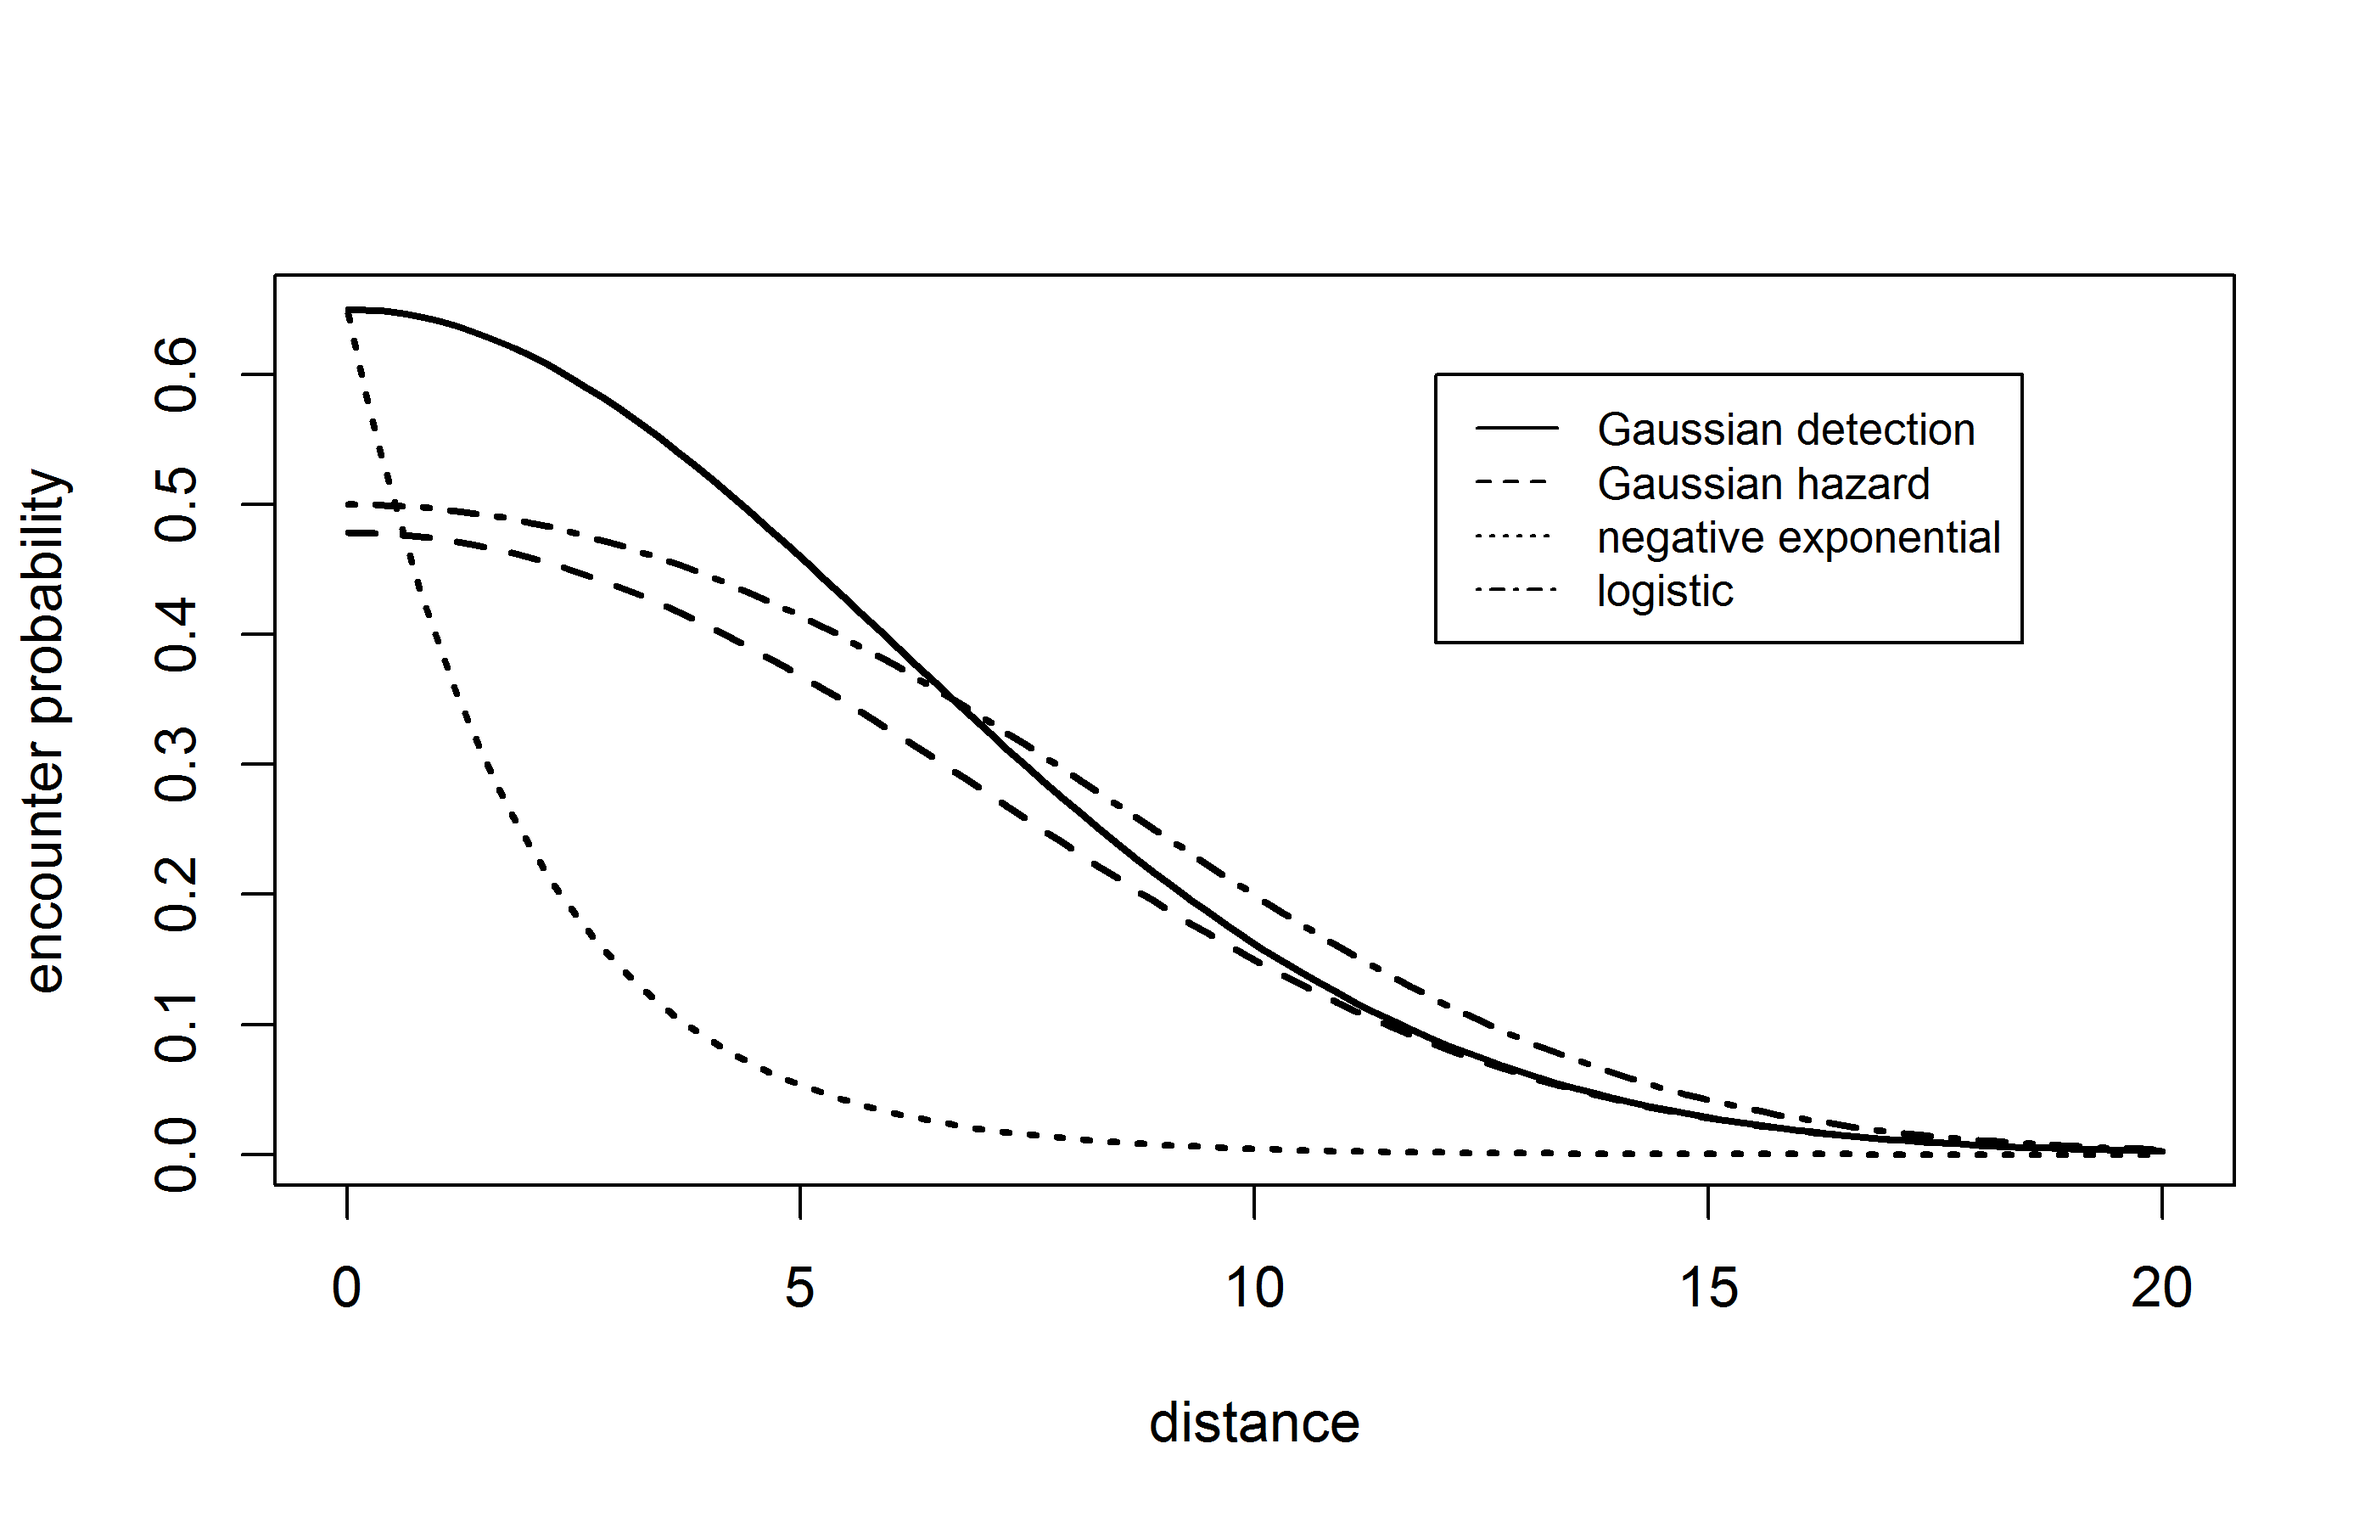
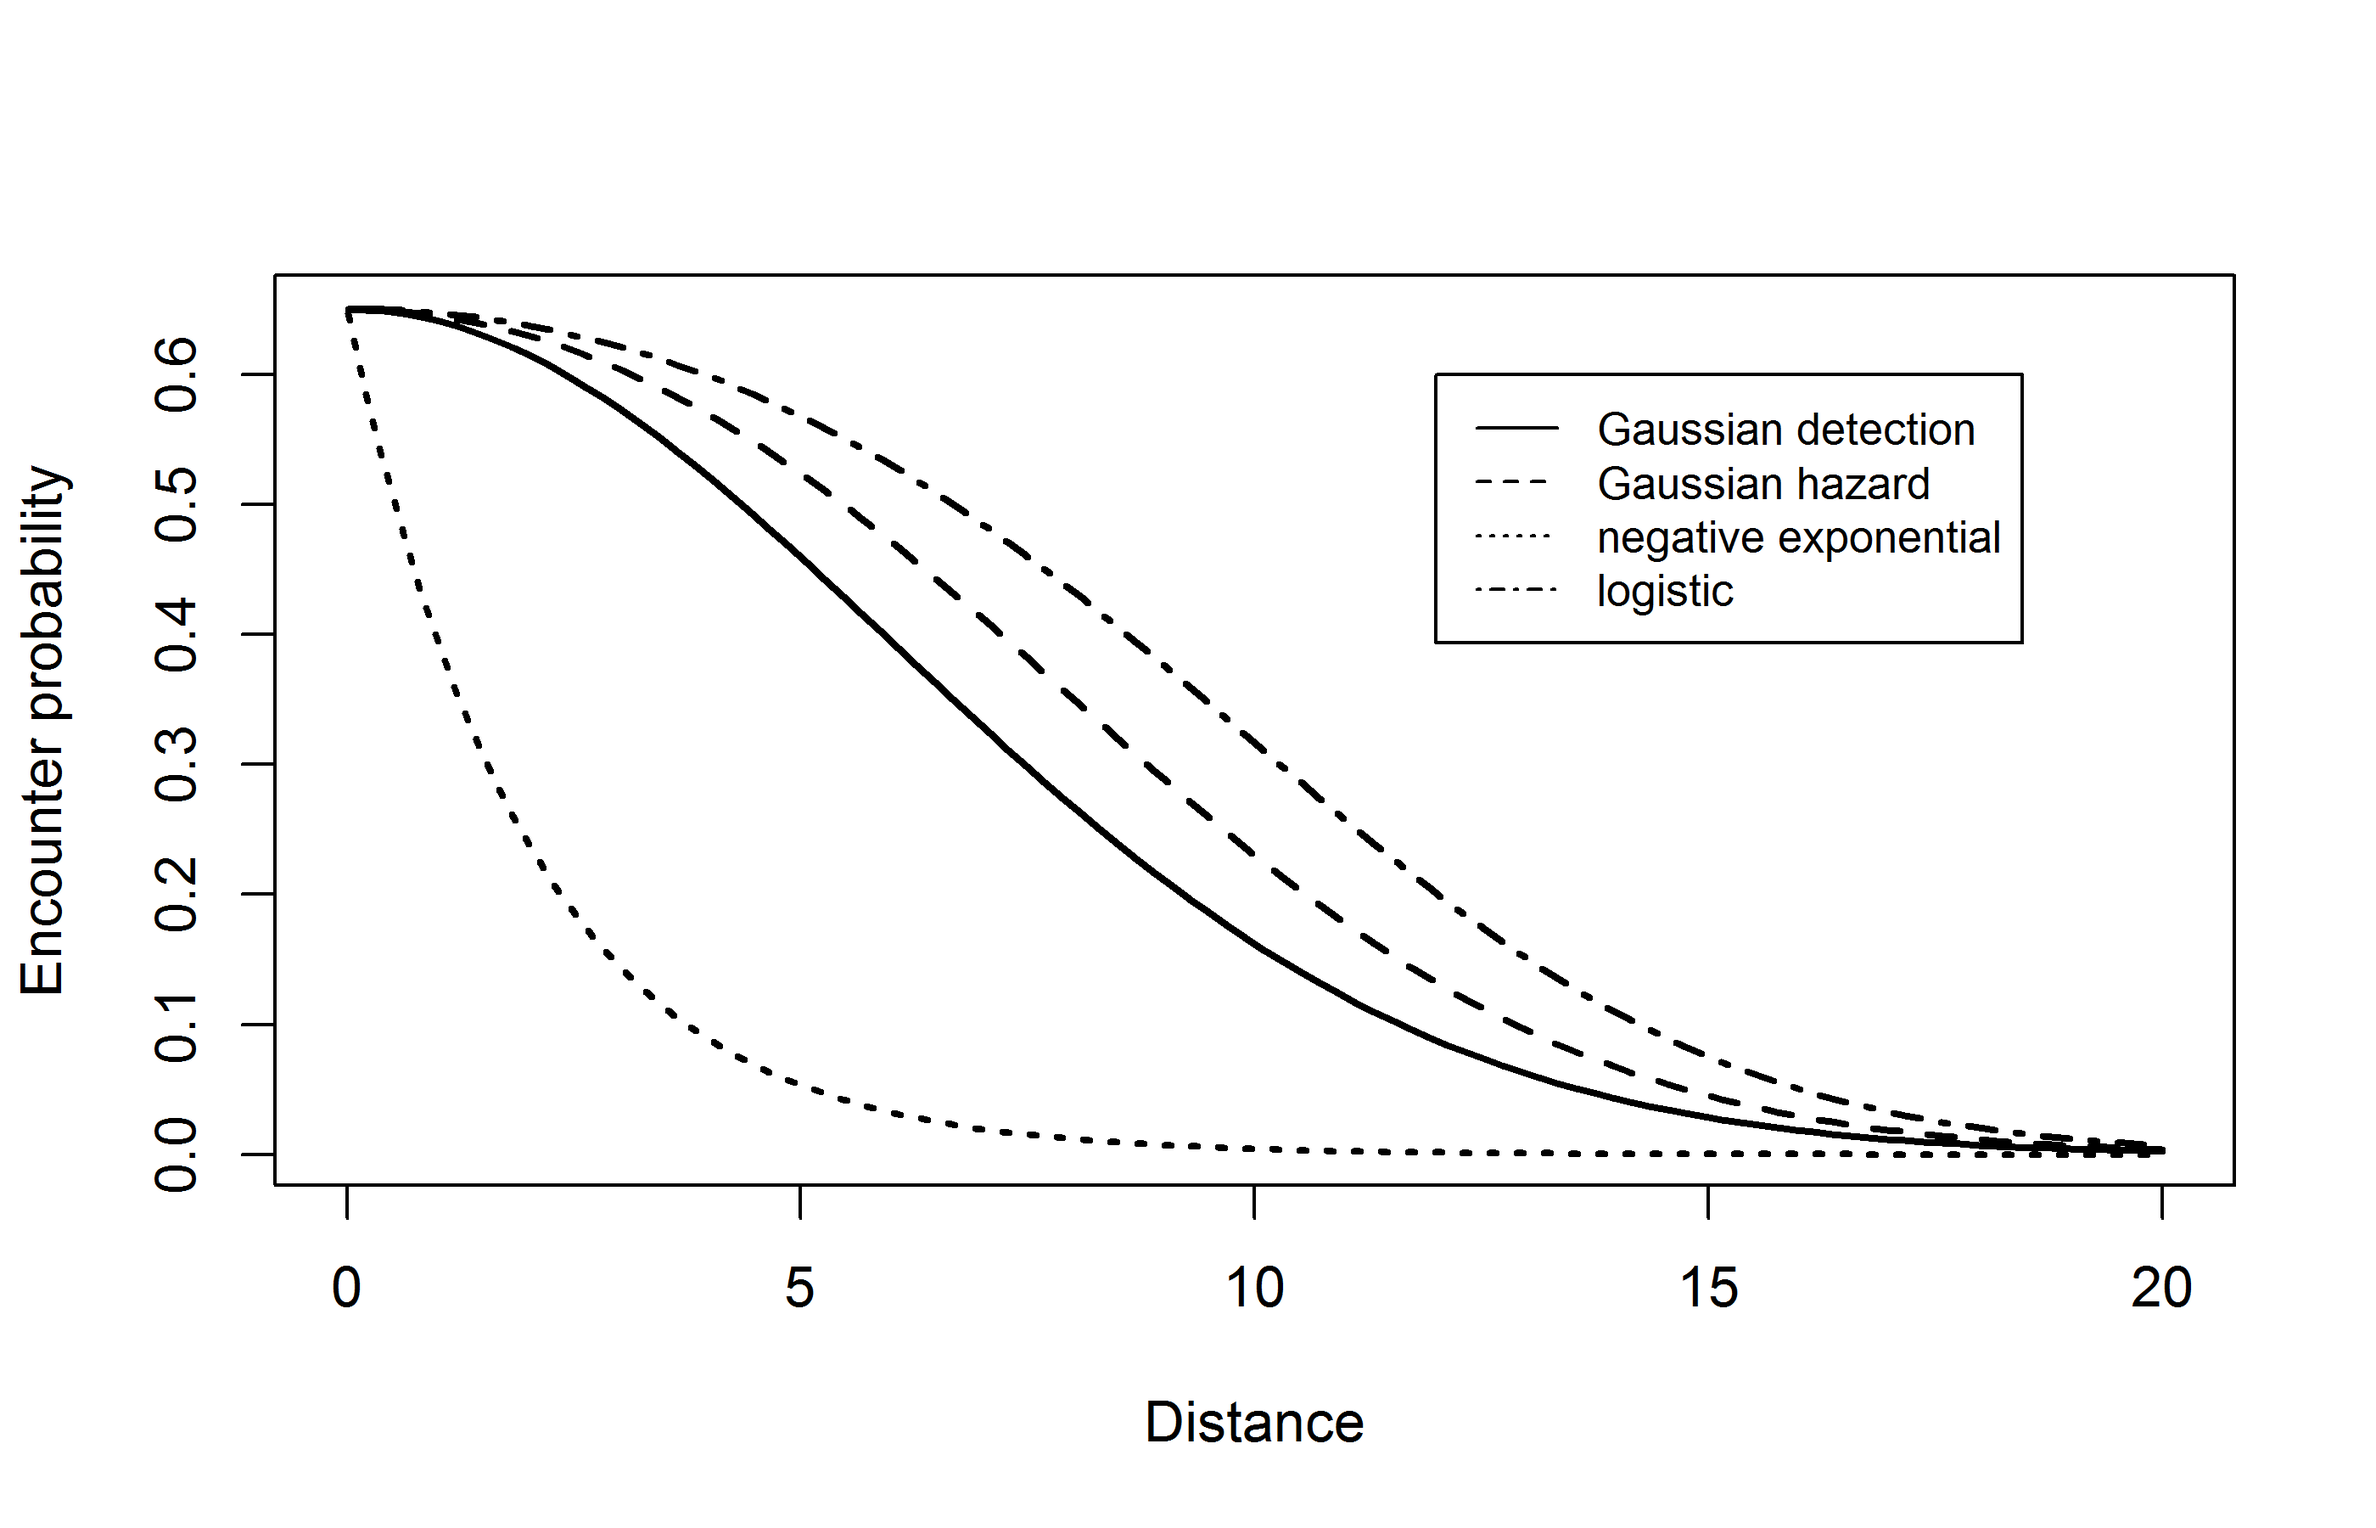
a few edits

diff --git a/Ch5-SCR0/Chapt-SCR0.tex b/Ch5-SCR0/Chapt-SCR0.tex
@@ -248,8 +248,6 @@ kernel.
 \caption{Some common encounter probability models showing the
   characteristic monotone decrease of encounter probability with
   distance between activity center and trap location.
-{\bf  XXXX Suggest capitalizing axis labels. Why do they have
-   different intercepts? XXXX }
 }
 \label{scr0.fig.detfuncs}
 \end{figure}
@@ -992,7 +990,7 @@ usage:
  }
 
 ##
-## execute hra with sigma = .3993
+## Execute hra with sigma = .3993
 ##
 > hra(pGauss1,parms=c(-2,.3993),plot=FALSE,xlim=c(0,6),ylim=c(0,6),
       ng=500,tol=.0005)
@@ -1003,8 +1001,8 @@ home range area:  3.007353
 [1] 3.007353
 
 
-##  analytic solution
-##  true sigma to produce area of 3
+##  Analytic solution:
+##     true sigma that produces area of 3
 > sqrt(3/pi)/sqrt(5.99)
 [1] 0.3992751
 \end{verbatim}
@@ -1133,7 +1131,7 @@ system is fixed at $100/64$.
 {\small
 \begin{verbatim}
 > set.seed(2013)
-# create 5 x 5 grid of trap locations with unit spacing
+# Create 5 x 5 grid of trap locations with unit spacing
 > traplocs <- cbind(sort(rep(1:5,5)),rep(1:5,5))
 > ntraps <- nrow(traplocs)
 # Compute distance matrix:
@@ -1203,9 +1201,9 @@ analysis below.
 [1] "Y"      "traplocs" "xlim"     "ylim"   "N"    "alpha0"   "beta"
 [8] "sigma"    "K"
 
-## grab encounter histories from simulated data list
+## Grab encounter histories from simulated data list
 > Y <- data$Y
-## grab the trap locations
+## Grab the trap locations
 > traplocs <- data$traplocs
 \end{verbatim}
 }
@@ -1287,7 +1285,8 @@ elements of the resulting object for further analysis.
 > y <- data$Y
 > traplocs <- data$traplocs
 
-# in this case nind=N because we're doing the known-N problem
+# In this case nind=N because we're doing the known-N problem
+#
 > nind <- nrow(y)
 > X <- data$traplocs
 > J <- nrow(X)   # number of traps
@@ -1339,7 +1338,7 @@ the state-space but, for the observed individuals, we replace those
 values by each individual's mean trap coordinate for all encounters
 {\small
 \begin{verbatim}
-### starting values for activity centers, s
+### Starting values for activity centers, s
 > sst <- cbind(runif(nind,xlim[1],xlim[2]),runif(nind,ylim[1],ylim[2]))
 > for(i in 1:nind){
       if(sum(y[i,])==0) next
@@ -1528,7 +1527,7 @@ near the trap(s) it was captured. All of this happens as follows:
 > y <- rbind(y,matrix(0,nrow=M-nind,ncol=ncol(y)))
 > z <- c(rep(1,nind),rep(0,M-nind))
 
-## starting values for s
+## Starting values for s
 > sst <- cbind(runif(M,xlim[1],xlim[2]),runif(M,ylim[1],ylim[2]))
 > for(i in 1:nind){
      sst[i,1] <- mean( X[y[i,]>0,1] )
@@ -2349,7 +2348,7 @@ first 2000 as burn-in, we execute the following {\bf R} commands:
 > data(wolverine)
 > traps <- wolverine$wtraps
 > y3d <- SCR23darray(wolverine$wcaps,wolverine$wtraps)
-> toad <- wolvSCR0(y3d,traps,nb=2000,ni=12000,buffer=1,M=300)
+> wolv <- wolvSCR0(y3d,traps,nb=2000,ni=12000,buffer=1,M=300)
 \end{verbatim}
 }
 The argument \mbox{\tt buffer} determines the buffer size of the
